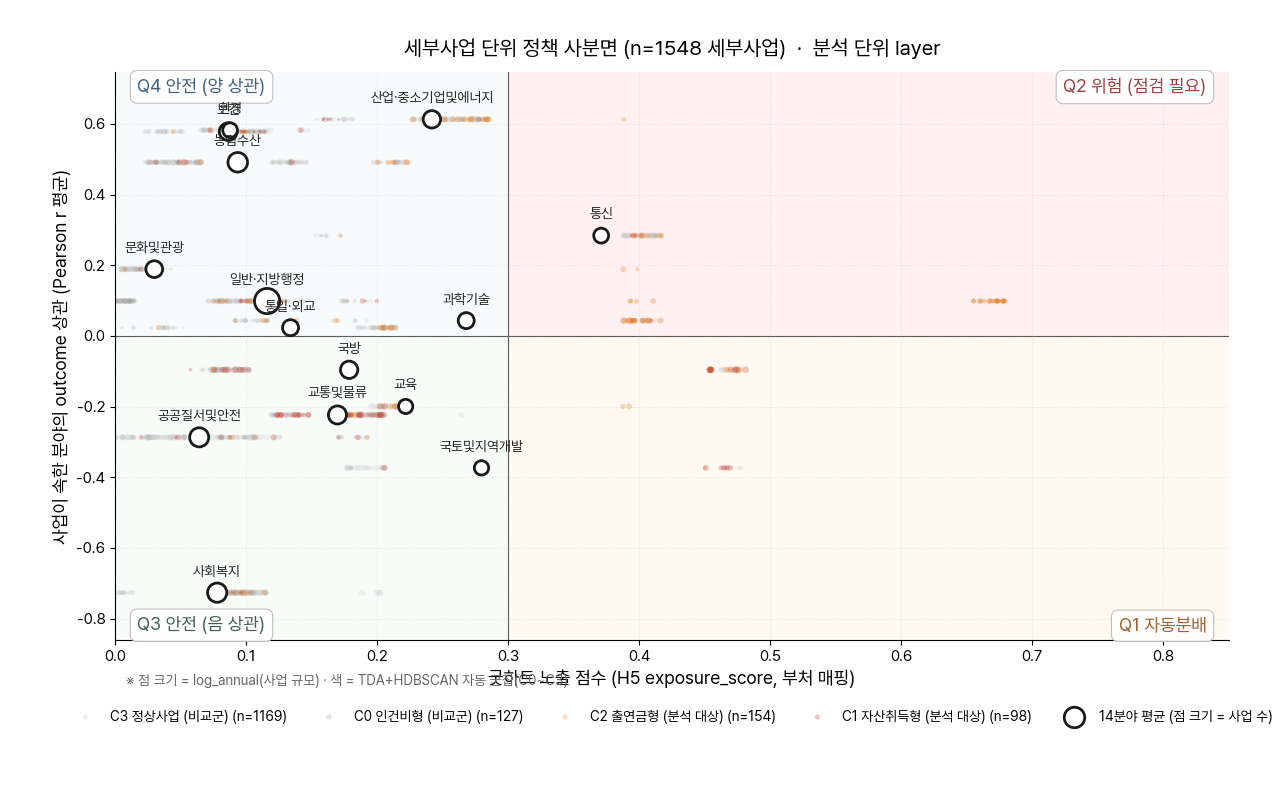
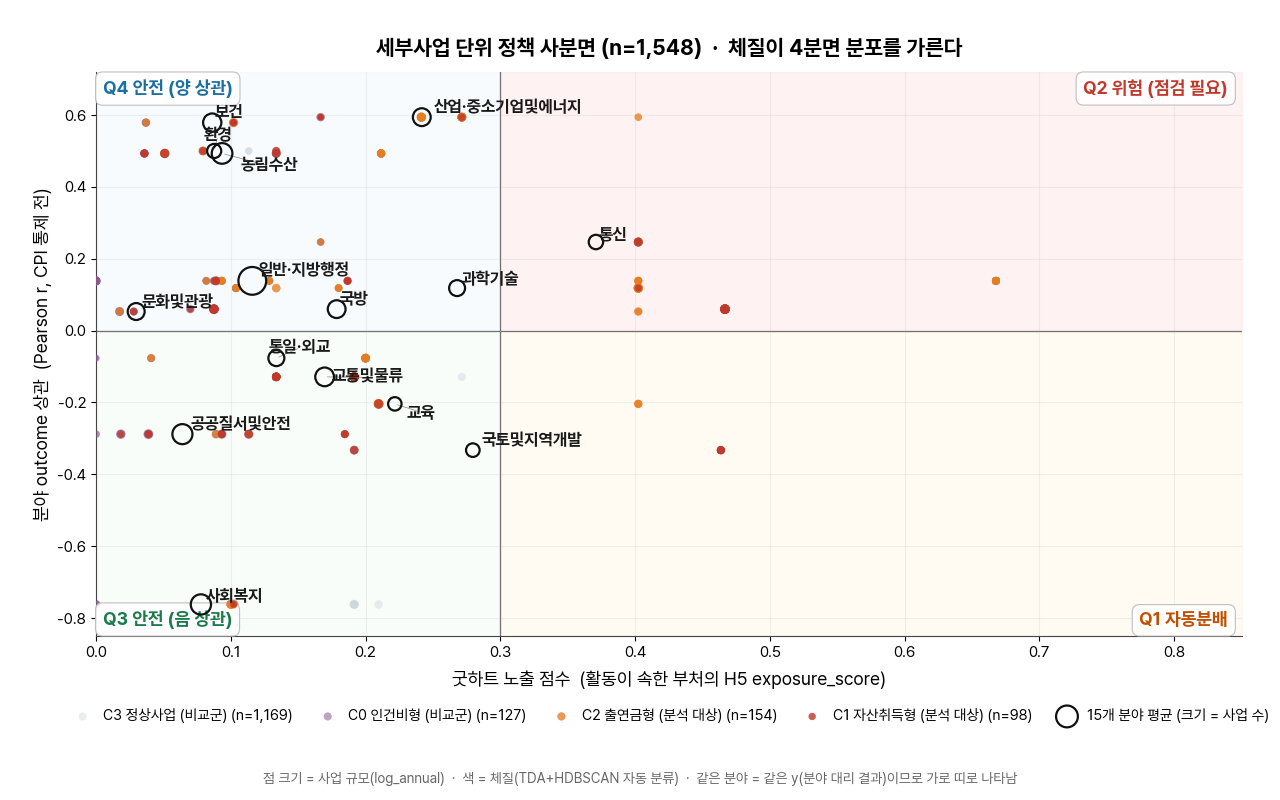
business_quadrant 생성기 복원 (PROVENANCE NOT_FOUND 해소)
- redo_fig10b_business_quadrant.py 신규: H3 활동임베딩 ∩ H10 분야 outcome 상관(corr_raw) ∩ H5 부처 노출 → n=1,548 재현
- 기존 수동본의 x축 라벨 ↔ 하단 각주 겹침 해소 (하단 여백 확보 + 각주 단독 배치)
- 분야 라벨 adjustText 충돌 회피, Pretendard 통일
- 캡션·본문 n=1,557 → 1,548 정정, Q2 과장 서술 → 고노출 영역 집중으로 정확화

diff --git a/scripts/figures/redo_fig10b_business_quadrant.py b/scripts/figures/redo_fig10b_business_quadrant.py
@@ -1,0 +1,154 @@
+"""세부사업 단위 정책 사분면 (fig_slide38_business_quadrant) — paper용 재생성기.
+
+PROVENANCE 上 'NOT_FOUND (수동 생성)'이던 차트를 재현 가능한 스크립트로 복원.
+(2026-06-01 신규 작성 — 부처 버전 redo_fig10_quadrant.py 와 한 쌍.)
+
+축 정의 (모두 커밋된 CSV에서 재현):
+  x = 굿하트 노출 점수 = 활동이 속한 부처의 H5 exposure_score
+      (data/results/H5_ministry_exposure_11y.csv, OFFC_NM 매핑)
+  y = 활동이 속한 분야의 outcome 상관 (Pearson r, CPI 통제 전)
+      (data/results/H10_macro_control_corr_v3.csv corr_raw, FLD_NM 매핑)
+  색 = 체질(archetype) cluster 0~3 (TDA+HDBSCAN)
+  점 크기 = log_annual (사업 규모)
+  검은 원 = 분야 평균 (x=분야 내 활동 평균 노출, y=corr_raw, 크기=활동 수)
+
+축이 모두 비-결과(노출)와 분야 대리 결과로 구성됨을 명시 — 사업 단위 outcome은
+측정 공백이라 분야값으로 대리하며, 그래서 같은 분야의 점은 가로 띠를 이룬다.
+
+source 데이터: H3_activity_embedding_11y.csv(1,557) ∩ corr ∩ exposure → 1,548.
+
+레이아웃 개선(기존 수동본 대비): x축 라벨과 하단 각주가 겹치던 문제를
+   하단 여백 확보 + 각주를 figure 최하단 단독 배치로 해소.
+"""
+import os, sys, io, warnings
+import numpy as np
+import pandas as pd
+import matplotlib.pyplot as plt
+from matplotlib.lines import Line2D
+from PIL import Image
+
+warnings.filterwarnings('ignore')
+sys.stdout = io.TextIOWrapper(sys.stdout.buffer, encoding='utf-8')
+
+from _paper_style import apply_paper_style
+apply_paper_style()
+
+ROOT = os.path.dirname(os.path.dirname(os.path.dirname(os.path.abspath(__file__))))
+RES = os.path.join(ROOT, 'data', 'results')
+
+emb = pd.read_csv(os.path.join(RES, 'H3_activity_embedding_11y.csv'), encoding='utf-8-sig')
+h10 = pd.read_csv(os.path.join(RES, 'H10_macro_control_corr_v3.csv'), encoding='utf-8-sig')
+h5 = pd.read_csv(os.path.join(RES, 'H5_ministry_exposure_11y.csv'), encoding='utf-8-sig')
+
+# ── 병합: 분야 outcome 상관(y) + 부처 노출(x)
+df = (emb.merge(h10[['fld', 'corr_raw']], left_on='FLD_NM', right_on='fld', how='left')
+         .merge(h5[['OFFC_NM', 'exposure_score']], on='OFFC_NM', how='left'))
+df = df.dropna(subset=['corr_raw', 'exposure_score']).copy()
+df['x'] = df['exposure_score'].astype(float)
+df['y'] = df['corr_raw'].astype(float)
+print(f'활동 점: {len(df):,} (분야 {df["FLD_NM"].nunique()}개)')
+
+# 점 크기: log_annual 정규화 → 8~58
+la = df['log_annual'].astype(float)
+df['psize'] = 8 + 50 * (la - la.min()) / (la.max() - la.min() + 1e-9)
+
+# ── 체질(archetype) 색/순서: 비교군 뒤, 분석 대상 앞
+ARCH = {
+    3: ('C3 정상사업 (비교군)',   '#BFC7D2', 0.32, 0),
+    0: ('C0 인건비형 (비교군)',   '#8C5A8F', 0.55, 1),
+    2: ('C2 출연금형 (분석 대상)', '#E67E22', 0.78, 2),
+    1: ('C1 자산취득형 (분석 대상)', '#C0392B', 0.82, 3),
+}
+
+EXPO_THRESH = 0.30
+
+# ── Figure (부처 버전과 동일한 1280×800 프레임)
+fig, ax = plt.subplots(figsize=(12.8, 8.0), dpi=100,
+                       gridspec_kw={'left': 0.075, 'right': 0.97,
+                                    'top': 0.91, 'bottom': 0.205})
+
+x1 = max(df['x'].max() + 0.04, 0.85)
+y0_lim = min(df['y'].min() - 0.08, -0.85)
+y1_lim = max(df['y'].max() + 0.08, 0.72)
+
+# 4분면 배경
+ax.fill_between([EXPO_THRESH, x1], 0, y1_lim, color='#ffe0e0', alpha=0.40, zorder=0)
+ax.fill_between([EXPO_THRESH, x1], y0_lim, 0, color='#fff3e0', alpha=0.40, zorder=0)
+ax.fill_between([0, EXPO_THRESH], 0, y1_lim, color='#e8f4f8', alpha=0.28, zorder=0)
+ax.fill_between([0, EXPO_THRESH], y0_lim, 0, color='#e8f8ee', alpha=0.28, zorder=0)
+ax.axhline(0, color='#666', lw=0.9, zorder=1)
+ax.axvline(EXPO_THRESH, color='#666', lw=0.9, zorder=1)
+
+# ── 활동 점 (체질별, 그리기 순서)
+for cl, (lab, col, al, order) in sorted(ARCH.items(), key=lambda k: k[1][3]):
+    s = df[df['cluster'] == cl]
+    ax.scatter(s['x'], s['y'], s=s['psize'], c=col, alpha=al,
+               edgecolors='none', zorder=2 + order,
+               label=f'{lab} (n={len(s):,})')
+
+# ── 분야 평균 검은 원 (x=평균 노출, y=corr_raw, 크기 ∝ 활동 수)
+fld_avg = (df.groupby('FLD_NM')
+             .agg(x=('x', 'mean'), y=('y', 'first'), n=('y', 'size'))
+             .reset_index())
+ax.scatter(fld_avg['x'], fld_avg['y'],
+           s=60 + fld_avg['n'] / fld_avg['n'].max() * 340,
+           facecolors='none', edgecolors='#111', linewidths=1.6,
+           zorder=7, label=f'{len(fld_avg)}개 분야 평균 (크기 = 사업 수)')
+
+# ── 분야 라벨 (검은 원 옆) — adjustText 충돌 회피
+texts = []
+try:
+    from adjustText import adjust_text
+    for _, r in fld_avg.iterrows():
+        t = ax.text(r['x'], r['y'], str(r['FLD_NM']),
+                    fontsize=12, color='#1a1a1a', fontweight='bold', zorder=8)
+        texts.append(t)
+    adjust_text(texts, ax=ax,
+                arrowprops=dict(arrowstyle='-', color='#888', lw=0.5),
+                expand_points=(1.8, 1.8), expand_text=(1.6, 1.6),
+                force_text=(0.8, 1.0), force_points=(0.5, 0.8), lim=200)
+except ImportError:
+    for _, r in fld_avg.iterrows():
+        ax.annotate(str(r['FLD_NM']), (r['x'], r['y']),
+                    xytext=(5, 5), textcoords='offset points',
+                    fontsize=12, fontweight='bold', color='#1a1a1a', zorder=8)
+
+# ── 4분면 코너 라벨 (부처 버전과 동일 framework)
+qbox = dict(boxstyle='round,pad=0.4', fc='white', ec='#bbb', lw=0.8, alpha=0.92)
+ax.text(x1 - 0.01, y1_lim - 0.02, 'Q2 위험 (점검 필요)', ha='right', va='top',
+        fontsize=13, color='#c0392b', fontweight='bold', bbox=qbox)
+ax.text(x1 - 0.01, y0_lim + 0.02, 'Q1 자동분배', ha='right', va='bottom',
+        fontsize=13, color='#c05000', fontweight='bold', bbox=qbox)
+ax.text(0.005, y1_lim - 0.02, 'Q4 안전 (양 상관)', ha='left', va='top',
+        fontsize=13, color='#1a6fa0', fontweight='bold', bbox=qbox)
+ax.text(0.005, y0_lim + 0.02, 'Q3 안전 (음 상관)', ha='left', va='bottom',
+        fontsize=13, color='#1a7a4a', fontweight='bold', bbox=qbox)
+
+ax.set_xlim(0, x1)
+ax.set_ylim(y0_lim, y1_lim)
+ax.set_xlabel('굿하트 노출 점수  (활동이 속한 부처의 H5 exposure_score)',
+              fontsize=13, labelpad=8)
+ax.set_ylabel('분야 outcome 상관  (Pearson r, CPI 통제 전)', fontsize=13)
+ax.set_title(f'세부사업 단위 정책 사분면 (n={len(df):,})  ·  체질이 4분면 분포를 가른다',
+             fontsize=15.5, fontweight='bold', pad=12)
+ax.tick_params(labelsize=11)
+ax.grid(alpha=0.18)
+for spine in ['top', 'right']:
+    ax.spines[spine].set_visible(False)
+
+# 범례 — x축 라벨 아래 한 줄, 각주와 분리
+ax.legend(loc='upper center', bbox_to_anchor=(0.5, -0.105),
+          fontsize=10.5, framealpha=0.9, ncol=5, frameon=False,
+          columnspacing=1.4, handletextpad=0.4)
+
+# 각주 — figure 최하단 단독 배치 (x축 라벨/범례와 겹치지 않게)
+fig.text(0.5, 0.018,
+         '점 크기 = 사업 규모(log_annual)  ·  색 = 체질(TDA+HDBSCAN 자동 분류)  ·  '
+         '같은 분야 = 같은 y(분야 대리 결과)이므로 가로 띠로 나타남',
+         ha='center', va='bottom', fontsize=10, color='#666')
+
+out = os.path.join(ROOT, 'paper', 'figures', 'eda', 'fig_slide38_business_quadrant.png')
+os.makedirs(os.path.dirname(out), exist_ok=True)
+fig.savefig(out, dpi=100, facecolor='white')
+plt.close()
+print(f'Saved: {out}  {Image.open(out).size}')

diff --git a/data/PROVENANCE.md b/data/PROVENANCE.md
@@ -45,7 +45,7 @@ CSV 경로는 별도 표기 없으면 `data/results/` 기준. `HC=⚠`는 빌
 | 그림 (`paper/figures/`) | 빌더 스크립트 | source 분석 | 읽는 CSV | HC |
 |---|---|---|---|---|
 | `eda/fig_slide22_cutoff_bars.png` | `build_slide_extras.py` | h22_quarterly_cutoffs.py | H22_quarterly_cutoffs.csv | |
-| `eda/fig_slide38_business_quadrant.png` | **NOT_FOUND (수동 생성)** | — | (warehouse) | ⚠ |
+| `eda/fig_slide38_business_quadrant.png` | `redo_fig10b_business_quadrant.py` | h3/h5/h10 결합 | H3_activity_embedding_11y.csv · H5_ministry_exposure_11y.csv · H10_macro_control_corr_v3.csv | |
 | `eda/fig_slide38_ministry_quadrant.png` | `redo_fig10_quadrant.py` | h14_v2_replaced.py | H5_ministry_exposure_11y.csv · H3_activity_embedding_11y.csv | ⚠ |
 | `h10_cpi_control.png` | `h10_replot.py` | h10_v3_replaced.py · h10_macro_control.py | H10_macro_control_corr_v3.csv | |
 | `h10_v3_robustness.png` | `generate_v3_charts.py` | — | H10_v3_alt_correlations.csv · H10_v3_socialwelfare_loo.csv | ⚠ |
